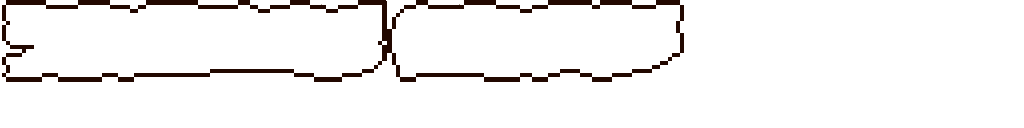
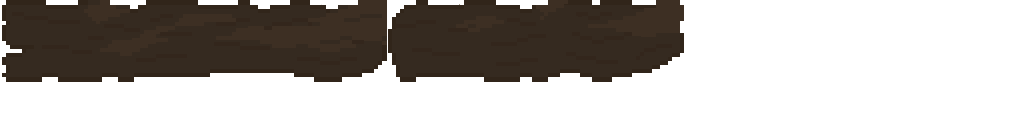
Added more textures to menuScreen

diff --git a/core/src/com/game/Screens/MenuScreen.java b/core/src/com/game/Screens/MenuScreen.java
@@ -26,7 +26,7 @@ import java.util.Objects;
 
 public class MenuScreen implements Screen  {
     private Main game;
-    private Texture front, clouds, background, backgroundForDialog;
+    private Texture front, clouds, clouds_front, castle, background, backgroundForDialog;
     public TextButton bExit, bLogin ,bPlay, bSettings, bCredits;
 
     public TextButton bDialogLogin, bDialogLoginRegister, cDialogStayLogged, bDialogExit, bDialogExit2;
@@ -53,8 +53,8 @@ public class MenuScreen implements Screen  {
     private Music backgroundMusic;
     private Dialog menuDialog;
 
-    private float cloudsPosition;
-    private float cloudsSpeed;
+    private float cloudsPosition, cloudsPosition_front;
+    private float cloudsSpeed, cloudsSpeed_front;
 
     public boolean stayLogged = false;
 
@@ -269,13 +269,6 @@ public class MenuScreen implements Screen  {
         table_dialogRegister.row();
         table_dialogRegister.add(bDialogExit2).width(128).height(32).align(Align.right);
         table_dialogRegister.add(bDialogRegisterLogin).width(128).height(32).align(Align.left);
-
-
-        //table_dialogLogin.debug();
-        table_dialogRegister.debug();
-
-
-
 
         bLogin.addListener(new ClickListener(){
             @Override
@@ -561,9 +554,14 @@ public class MenuScreen implements Screen  {
 
             //cloudsSpeed can be set randomly every few seconds
             cloudsPosition -= delta*cloudsSpeed;
+            cloudsPosition_front -= delta*cloudsSpeed_front;
+
 
             if (cloudsPosition <= -3840)
                 cloudsPosition = 0;
+
+            if(cloudsPosition_front <= -3840)
+                cloudsPosition_front = 0;
 
             game.batch.begin();
             if(isDialog){
@@ -576,6 +574,8 @@ public class MenuScreen implements Screen  {
             }else{
                 game.batch.draw(background, 0,0);
                 game.batch.draw(clouds, cloudsPosition,0);
+                game.batch.draw(castle, 0,0);
+                game.batch.draw(clouds_front, cloudsPosition_front, 0);
                 game.batch.draw(front, 0,0);
                 bPlay.setVisible(true);
                 bLogin.setVisible(true);
@@ -617,9 +617,12 @@ public class MenuScreen implements Screen  {
     private void initSettingsUI(){
         cloudsPosition = 0;
         cloudsSpeed = 30;
+        cloudsSpeed_front = 60;
         background = new Texture("back.png");
         front = new Texture("front.png");
         clouds = new Texture("clouds.png");
+        clouds_front = new Texture("clouds_front.png");
+        castle = new Texture("castle.png");
 
         backgroundForDialog = new Texture("tempBackground.png");
         generator = new FreeTypeFontGenerator(Gdx.files.internal("Silkscreen.ttf"));
@@ -629,7 +632,7 @@ public class MenuScreen implements Screen  {
         fontText = new BitmapFont();
 
         parameter.size = 32;
-        parameter.color = Color.BLACK;
+        parameter.color = Color.valueOf("938672");
         parameter.characters = "ąćęłńóśżźabcdefghijklmnopqrstuvwxyzĄĆĘÓŁŃŚŻŹABCDEFGHIJKLMNOPQRSTUVWXYZ0123456789][_!$%#@|\\/?-+=()*&.;:,{}\"´`'<>";
 
         fontTitle = generator.generateFont(parameter);
